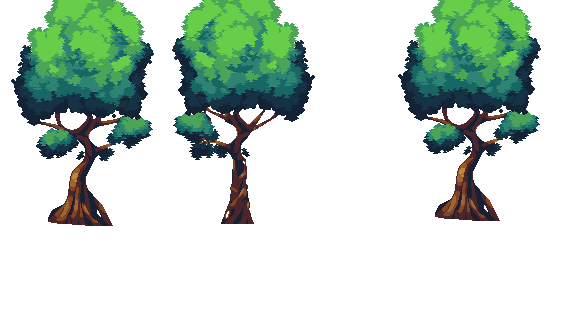
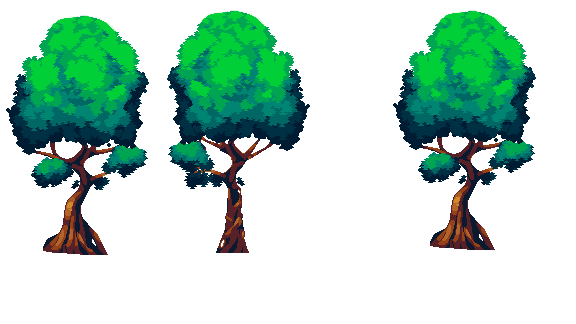
se agrego un 5 capa al fondo asi se tapa la raiz del arbol

diff --git a/tinygames/css/flappy-eagle.css b/tinygames/css/flappy-eagle.css
@@ -43,18 +43,25 @@
     z-index: 2;
 }
 
+/* CAPA 5*/
+.flappyeagle-embed #fe-bg-5, .flappyeagle-embed #fe-bg-5-copy {
+    background-image: url('../assets/5.png');
+    animation-duration: 32s;
+    z-index: 3;
+}
+
 /* CAPA 3 */
 .flappyeagle-embed #fe-bg-3, .flappyeagle-embed #fe-bg-3-copy {
     background-image: url('../assets/3.png');
     animation-duration: 20s;
-    z-index: 3;
+    z-index: 4;
 }
 
 /* CAPA 4: más cercana (más rápida) */
 .flappyeagle-embed #fe-bg-4, .flappyeagle-embed #fe-bg-4-copy {
     background-image: url('../assets/4.png');
     animation-duration: 10s;
-    z-index: 4;
+    z-index: 5;
 }
 
 /* Animación única para el scroll infinito */

diff --git a/tinygames/FlappyEagle.html b/tinygames/FlappyEagle.html
@@ -79,6 +79,9 @@
                 <div class="fe-bg-layer" id="fe-bg-2"></div>
                 <div class="fe-bg-layer fe-bg-layer--copy" id="fe-bg-2-copy"></div>
 
+                <div class="fe-bg-layer" id="fe-bg-5"></div>
+                <div class="fe-bg-layer fe-bg-layer--copy" id="fe-bg-5-copy"></div>
+
                 <div class="fe-bg-layer" id="fe-bg-3"></div>
                 <div class="fe-bg-layer fe-bg-layer--copy" id="fe-bg-3-copy"></div>
 
